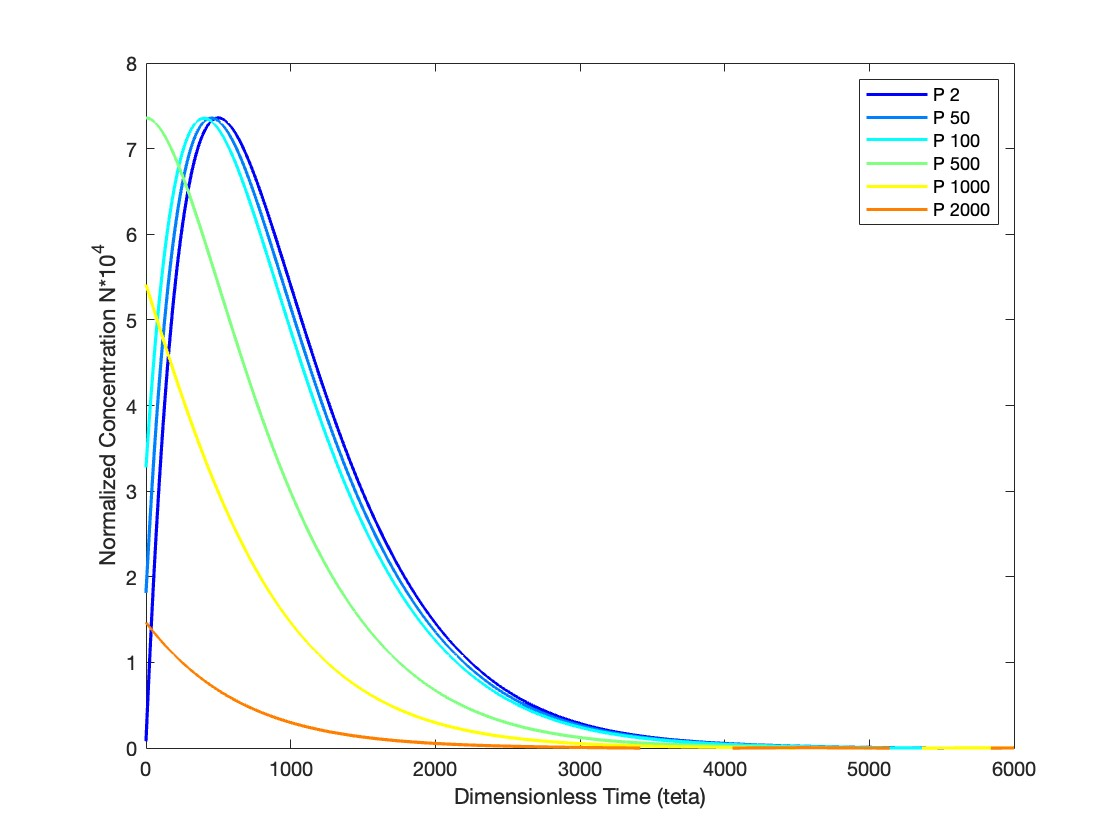
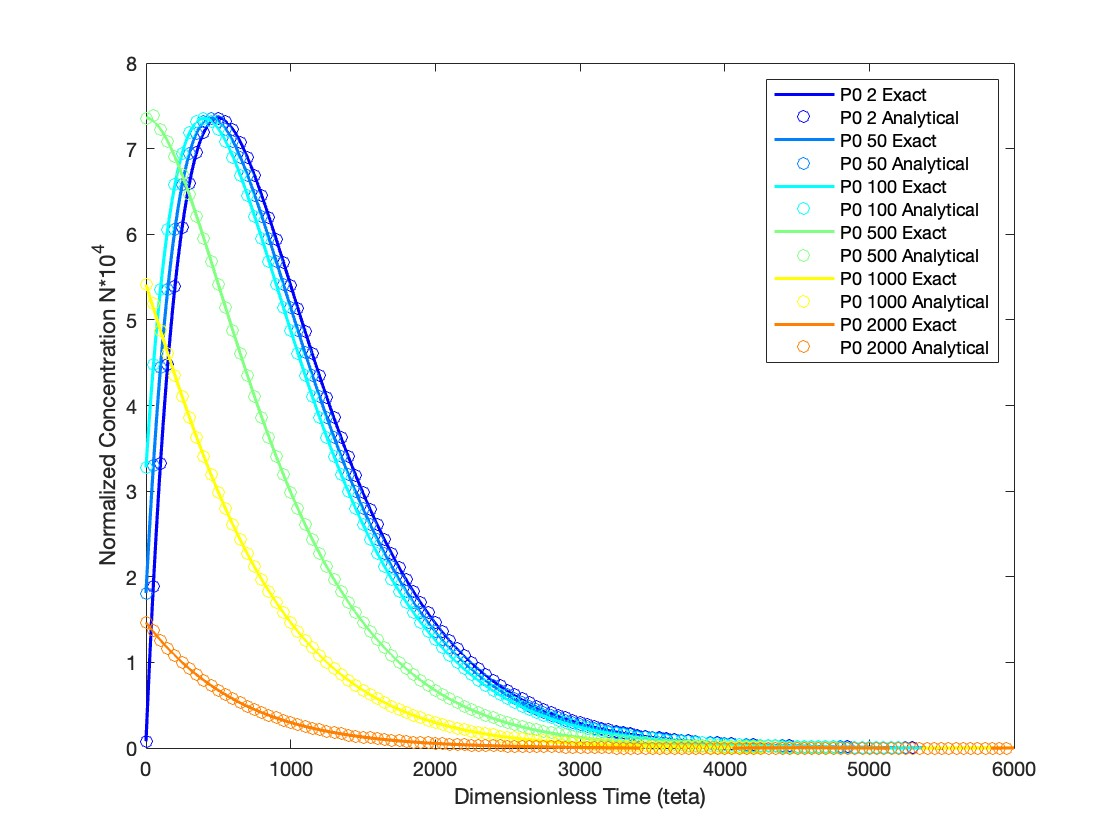
Add files via upload

diff --git a/PBE_gaussiana.m b/PBE_gaussiana.m
@@ -31,23 +31,59 @@ tspan = 0:10:1200000; %[s]
 teta = kd.*t;
 N = P;
 
+%Analytical solution
+
+k=50; 
+
+teta_1=0.01:50:6000;
+Pn_total=zeros(length(teta_1),5000+1);
+for t=1:length(teta_1)
+ Pn_final=zeros(1,5000+1);
+    for n=2:5000 
+ 
+    Pn_it=0;
+    for i=n:5000
+    Pn_old=Pn_it;
+        if i<n+k+1
+        Pn_in=P0(i)*(teta_1(t))^(i-n)/(factorial(i-n))*exp(-teta_1(t));
+        Pn_it=Pn_in+Pn_old;
+        else
+        Pn_in=P0(i)*1/(2*pi*teta_1(t))^0.5*exp(-(i-n-teta_1(t))^2/(2*teta_1(t)));
+        Pn_it=Pn_in+Pn_old;
+        end 
+    end
+ Pn_final(n)=Pn_it;
+end
+Pn_total(t,:)=Pn_final;
+end
+
+Pn_matrix=Pn_total(:,2:end);
+
 %% Plots
 
 figure(1)
 
 plot(chain_length(2), P0(2)*1e4, 'o', 'LineWidth',1.6)
 hold on
+
+
 title('Chain Length Distribution at teta = 0')
 xlabel('Chain Length')
 ylabel('Normalized Concentration N*10^4')
+
 plot(chain_length(50), P0(50)*1e4, 'o', 'LineWidth',1.6)
+
 plot(chain_length(100), P0(100)*1e4, 'o', 'LineWidth',1.6)
+
 plot(chain_length(500), P0(500)*1e4, 'o', 'LineWidth',1.6)
+
 plot(chain_length(1000), P0(1000)*1e4, 'o', 'LineWidth',1.6)
+
 plot(chain_length(2000), P0(2000)*1e4, 'o', 'LineWidth',1.6)
+
 hold on
 plot(chain_length, P0.*1e4, 'LineWidth',1.6, 'Color','black')
-legend('P0 2', 'P0 50','P0 100','P0 500','P0 1000','P0 2000')
+legend('P 2', 'P 50', 'P 100', 'P 500', 'P 1000', 'P 2000')
 hold off
 
 cc = jet(6);
@@ -56,15 +92,21 @@ figure(2)
 
 plot(teta,N(:,2).*1e4, 'LineWidth',1.6, 'Color',cc(1,:))
 hold on
+plot(teta_1,Pn_matrix(:,1).*1e4,"o",'Color',cc(1,:))
 plot(teta,N(:,50).*1e4, 'LineWidth',1.6, 'Color',cc(2,:))
+plot(teta_1,Pn_matrix(:,49).*1e4,"o",'Color',cc(2,:))
 plot(teta,N(:,100).*1e4, 'LineWidth',1.6, 'Color',cc(3,:))
+plot(teta_1,Pn_matrix(:,99).*1e4,"o",'Color',cc(3,:))
 plot(teta,N(:,500).*1e4, 'LineWidth',1.6, 'Color',cc(4,:))
+plot(teta_1,Pn_matrix(:,499).*1e4,"o",'Color',cc(4,:))
 plot(teta,N(:,1000).*1e4, 'LineWidth',1.6, 'Color',cc(5,:))
+plot(teta_1,Pn_matrix(:,999).*1e4,"o",'Color',cc(5,:))
 plot(teta,N(:,2000).*1e4, 'LineWidth',1.6, 'Color',cc(6,:))
+plot(teta_1,Pn_matrix(:,1999).*1e4,"o",'Color',cc(6,:))
 axis([0 6000 0 8])
 xlabel('Dimensionless Time (teta)')
 ylabel('Normalized Concentration N*10^4')
-legend('P 2', 'P 50', 'P 100', 'P 500', 'P 1000', 'P 2000')
+legend('P0 2 Exact', 'P0 2 Analytical', 'P0 50 Exact', 'P0 50 Analytical','P0 100 Exact', 'P0 100 Analytical','P0 500 Exact', 'P0 500 Analytical','P0 1000 Exact','P0 1000 Analytical','P0 2000 Exact', 'P0 2000 Analytical')
 
 %% Function
 
